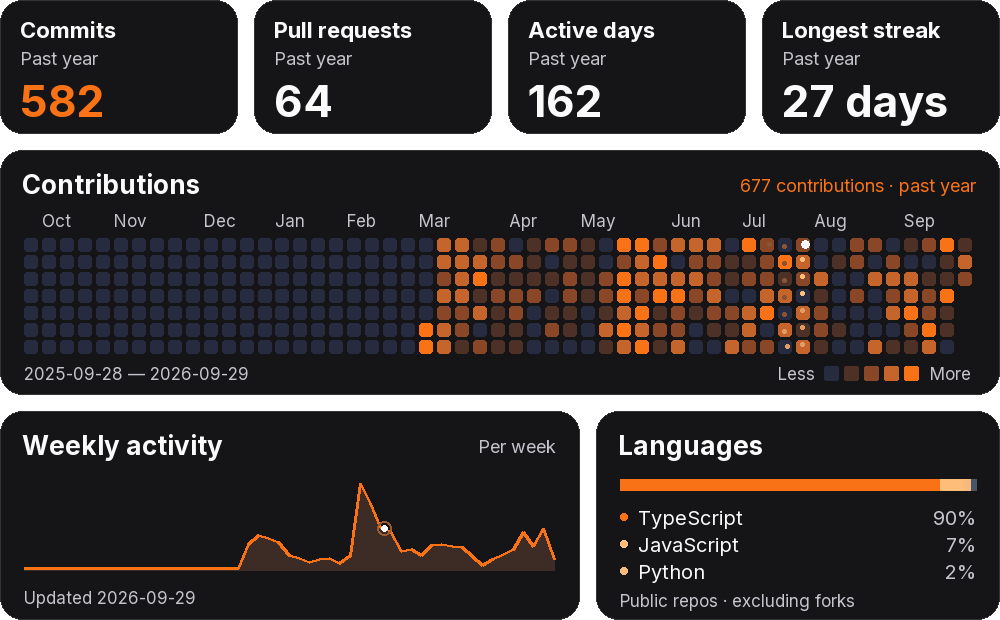
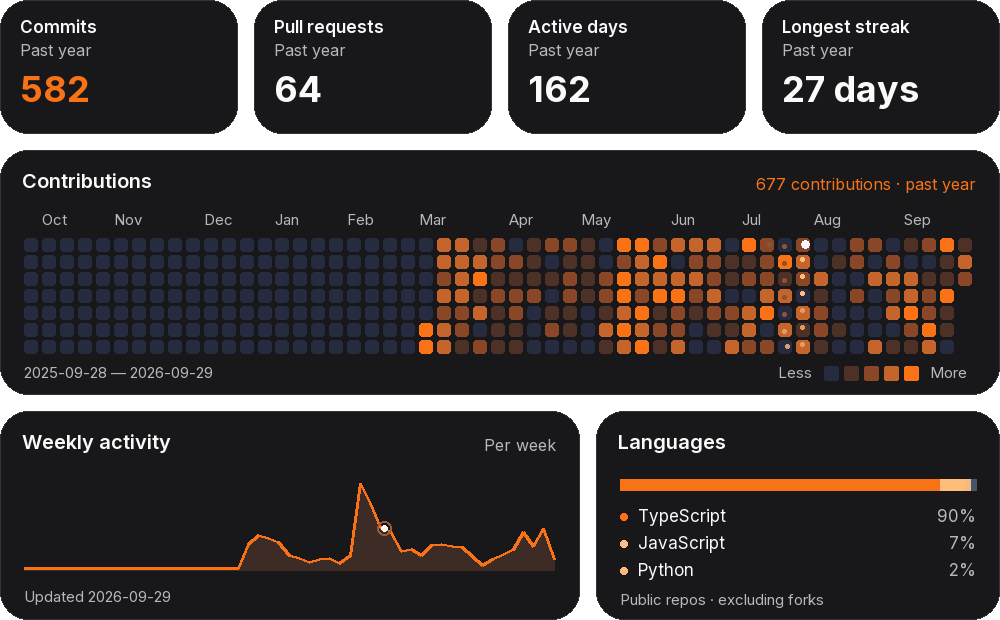
fix: align profile typography with Navet cards

diff --git a/scripts/render_dashboard.py b/scripts/render_dashboard.py
@@ -21,8 +21,8 @@ for day in DAYS:
     RUN = RUN + 1 if day['contributionCount'] else 0
     STREAK = max(STREAK, RUN)
 W, H = 1000, 620
-CARD, LINE = '#151517', '#343436'
-WHITE, MUTED, ORANGE, AMBER = '#fafafa', '#c4c4cc', '#f97316', '#ffbd7a'
+CARD, LINE = '#18181b', '#333338'
+WHITE, MUTED, ORANGE, AMBER = '#fafafa', '#b7b7bd', '#f97316', '#ffbd7a'
 PALETTE = ['#262b40', '#4d3026', '#8a4728', '#c5652b', ORANGE]
 
 
@@ -35,11 +35,11 @@ def font(size, bold=False, mono=False):
         if path and Path(path).exists():
             loaded = ImageFont.truetype(path, size, index=(0 if bold else 7) if 'Avenir' in path else 0)
             if 'inter.ttf' in path:
-                loaded.set_variation_by_axes([700 if bold else 400])
+                loaded.set_variation_by_axes([700 if bold and size == 36 else 600 if bold else 400])
             return loaded
     return ImageFont.load_default(size=size)
 
-FONTS = {(s, b, m): font(s,b,m) for s in [17,18,20,22,24,26,44] for b in [False,True] for m in [False,True]}
+FONTS = {(s, b, m): font(s,b,m) for s in [15,16,17,18,20,36] for b in [False,True] for m in [False,True]}
 
 
 def level(count):
@@ -50,15 +50,15 @@ def render(phase):
     im = Image.new('RGBA', (W, H), (0, 0, 0, 0))
     d = ImageDraw.Draw(im)
 
-    def txt(x, y, value, size=20, color=WHITE, bold=False):
+    def txt(x, y, value, size=17, color=WHITE, bold=False):
         d.text((x, y), str(value), font=FONTS[size, bold, False], fill=color)
 
-    def right(x, y, value, size=18, color=MUTED):
+    def right(x, y, value, size=16, color=MUTED):
         width = d.textlength(str(value), font=FONTS[size, False, False])
         txt(x-width, y, value, size, color)
 
     def card(box):
-        d.rounded_rectangle(box, 22, fill=CARD, outline=LINE, width=1)
+        d.rounded_rectangle(box, 28, fill=CARD, outline=LINE, width=1)
 
     stats = [(COLLECTION['totalCommitContributions'], 'Commits', ORANGE),
              (COLLECTION['totalPullRequestContributions'], 'Pull requests', WHITE),
@@ -67,19 +67,19 @@ def render(phase):
     for j, (value, label, color) in enumerate(stats):
         x = j*254
         card((x, 0, x+237, 133))
-        txt(x+20, 16, label, 22, bold=True)
-        txt(x+20, 47, 'Past year', 18, MUTED)
-        txt(x+20, 74, f'{value:,}'+(' days' if j == 3 else ''), 44, color, True)
+        txt(x+20, 16, label, 17, bold=True)
+        txt(x+20, 40, 'Past year', 16, MUTED)
+        txt(x+20, 67, f'{value:,}'+(' days' if j == 3 else ''), 36, color, True)
 
     card((0, 150, W-1, 394))
-    txt(22, 168, 'Contributions', 26, bold=True)
+    txt(22, 168, 'Contributions', 20, bold=True)
     right(976, 174, f"{CAL['totalContributions']:,} contributions · past year", color=ORANGE)
     gx, gy, step, size, row_step = 24, 238, 952/len(WEEKS), 13, 17
     last_month = None
     for wi, week in enumerate(WEEKS):
         first = date.fromisoformat(week['contributionDays'][0]['date'])
         if first.month != last_month and wi < len(WEEKS)-2 and not (wi == 0 and first.day > 21):
-            txt(gx+wi*step, 210, first.strftime('%b'), 17, MUTED)
+            txt(gx+wi*step, 210, first.strftime('%b'), 15, MUTED)
             last_month = first.month
         for day in week['contributionDays']:
             x, y = gx+wi*step, gy+day['weekday']*row_step
@@ -104,14 +104,14 @@ def render(phase):
     x = trail[i][0]*(1-t)+trail[i+1][0]*t
     y = trail[i][1]*(1-t)+trail[i+1][1]*t
     d.ellipse((x-4, y-4, x+4, y+4), fill=WHITE)
-    txt(24, 363, f"{DAYS[0]['date']} — {DAYS[-1]['date']}", 17, MUTED)
-    txt(778, 363, 'Less', 17, MUTED)
+    txt(24, 363, f"{DAYS[0]['date']} — {DAYS[-1]['date']}", 15, MUTED)
+    txt(778, 363, 'Less', 15, MUTED)
     for j, color in enumerate(PALETTE):
         d.rounded_rectangle((824+j*20, 366, 838+j*20, 380), 2, fill=color)
-    txt(930, 363, 'More', 17, MUTED)
+    txt(930, 363, 'More', 15, MUTED)
 
     card((0, 411, 579, H-1))
-    txt(22, 429, 'Weekly activity', 26, bold=True)
+    txt(22, 429, 'Weekly activity', 20, bold=True)
     right(556, 435, 'Per week')
     vals = [sum(day['contributionCount'] for day in week['contributionDays']) for week in WEEKS]
     maximum = max(vals) or 1
@@ -124,10 +124,10 @@ def render(phase):
     y = points[lo][1]*(1-t)+points[lo+1][1]*t
     d.ellipse((x-7, y-7, x+7, y+7), outline='#9c5b31', width=2)
     d.ellipse((x-3, y-3, x+3, y+3), fill=WHITE)
-    txt(24, 587, f"Updated {DATA['updatedAt'][:10]}", 17, MUTED)
+    txt(24, 587, f"Updated {DATA['updatedAt'][:10]}", 15, MUTED)
 
     card((596, 411, W-1, H-1))
-    txt(618, 429, 'Languages', 26, bold=True)
+    txt(618, 429, 'Languages', 20, bold=True)
     total = sum(lang['bytes'] for lang in DATA['languages']) or 1
     colors = [ORANGE, AMBER, '#f5ba7e']
     x = 620
@@ -138,9 +138,9 @@ def render(phase):
     for j, lang in enumerate(DATA['languages'][:3]):
         y = 505+j*27
         d.ellipse((620, y+8, 627, y+15), fill=colors[j])
-        txt(638, y, lang['name'], 20)
-        right(976, y, f"{lang['bytes']/total:.0%}", 20)
-    txt(620, 590, 'Public repos · excluding forks', 17, MUTED)
+        txt(638, y, lang['name'], 17)
+        right(976, y, f"{lang['bytes']/total:.0%}", 17)
+    txt(620, 590, 'Public repos · excluding forks', 15, MUTED)
     return im
 
 
